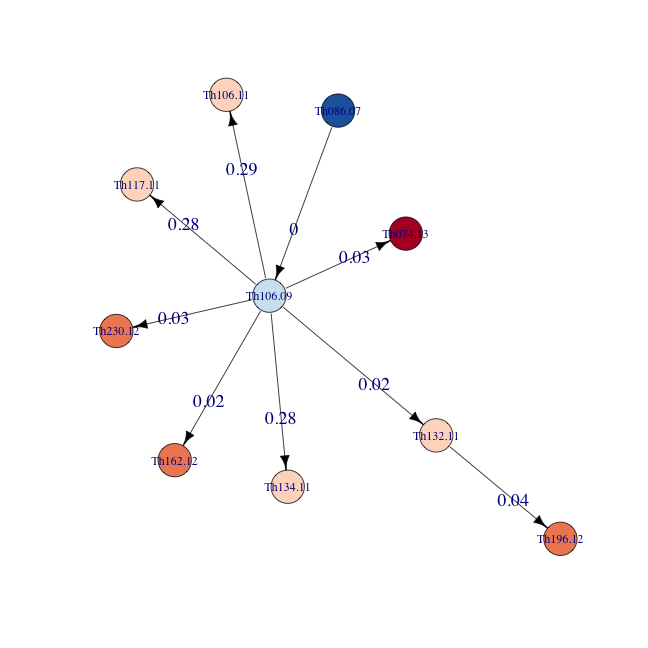
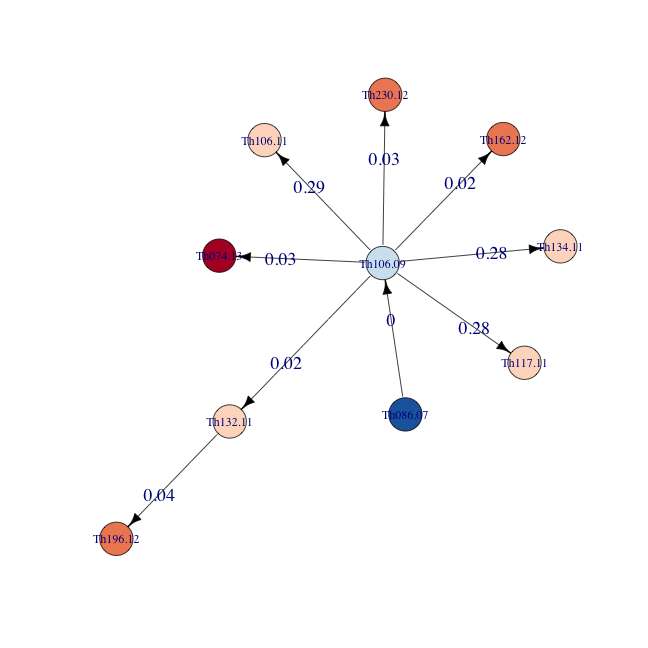
updated graphs for homoplasy plots:

diff --git a/reports/160513_thies_homoplasies_nets/plotHaplotypes.md b/reports/160513_thies_homoplasies_nets/plotHaplotypes.md
@@ -47,7 +47,7 @@ getGenoTab <- function(filename) {
 ```r
 networkorder <- c("Th134.11","Th117.11","Th106.11","Th086.07","Th106.09","Th196.12","Th074.13","Th132.11","Th162.12","Th230.12")
 INDELnetworkorder <- c("Th134.11","Th117.11","Th106.11","Th086.07","Th106.09","Th196.12","Th074.13","Th132.11","Th162.12","Th230.12")
-SNPnetworkorder <- c("Th086.07","Th106.09","Th134.11","Th117.11","Th106.11","Th162.12","Th230.12","Th074.13","Th132.11","Th196.12")
+SNPnetworkorder <- c("Th086.07","Th106.09","Th106.11","Th117.11","Th134.11","Th230.12","Th162.12","Th074.13","Th132.11","Th196.12")
 
 clade3F <- "clade29.alleles.tab.txt"
 genotab3 <- getGenoTab(clade3F)
@@ -267,3 +267,21 @@ plot(indelnet,edge.color="black",edge.label=round(E(indelnet)$homoplasy_percent,
 ```
 
 ![plot of chunk unnamed-chunk-8](figure/unnamed-chunk-8-4.png)
+
+
+```r
+#lay <- layout_as_tree(snpnet,flip.y = T)
+lay[,1] <- as.numeric(as.factor(V(indelnet)$year))
+lay[,2] <- c(0,1,2,3,8,4,6,9,5,7)
+plot(snpnet,layout=lay)
+```
+
+![plot of chunk unnamed-chunk-9](figure/unnamed-chunk-9-1.png)
+
+```r
+lay[,2] <- c(0,-1,1,2,-4,3,-5,-2,-6,-3)
+lay[,1] <- as.numeric(as.factor(V(indelnet)$year))
+plot(indelnet,layout=lay)
+```
+
+![plot of chunk unnamed-chunk-9](figure/unnamed-chunk-9-2.png)
